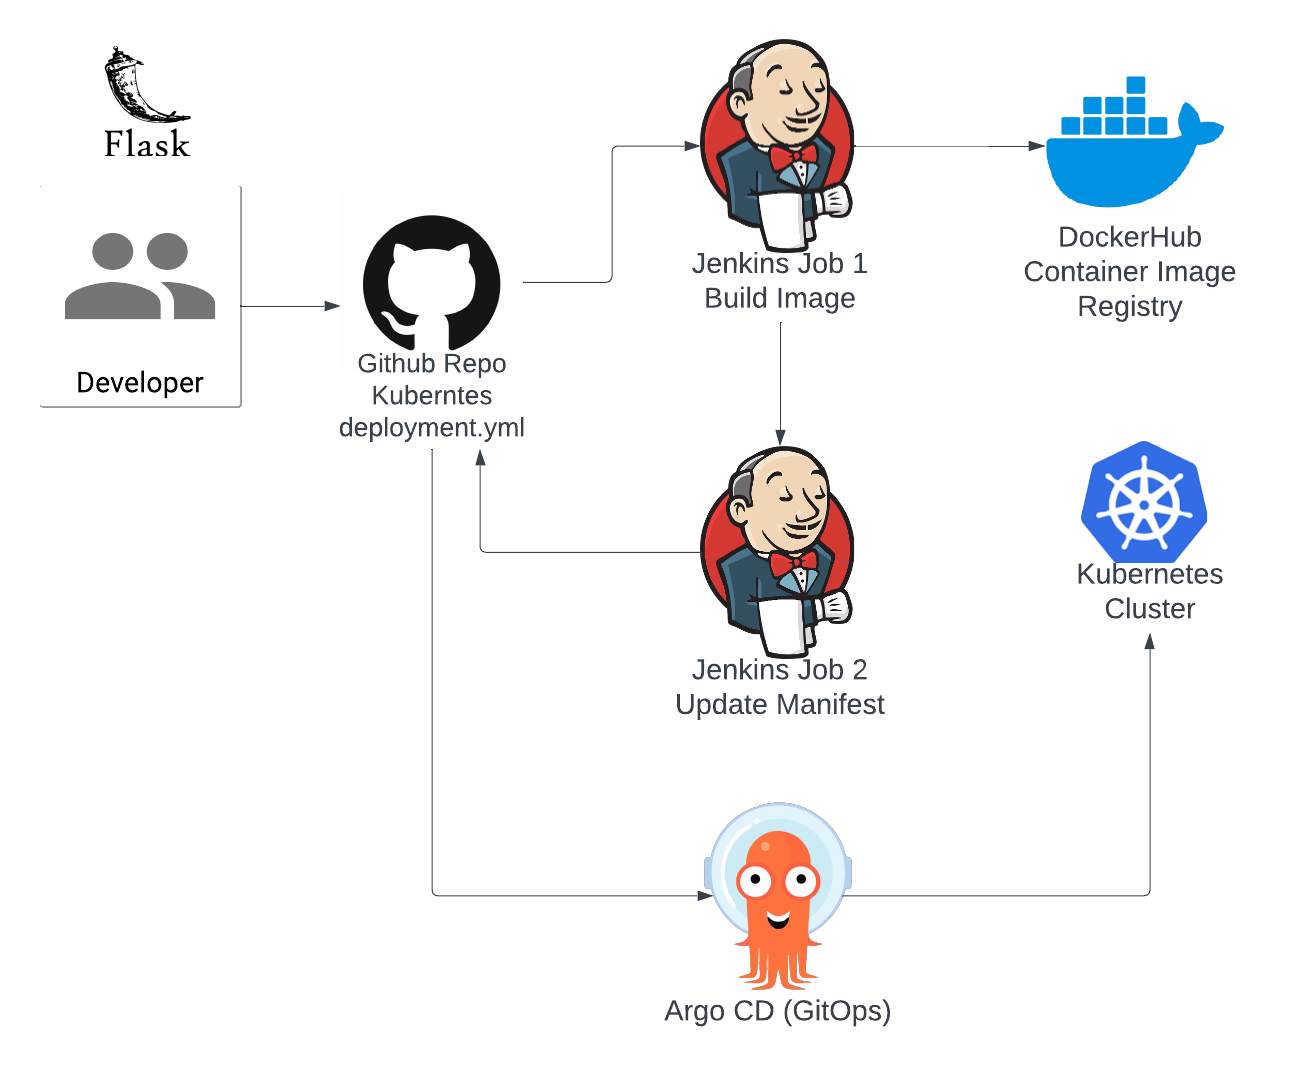
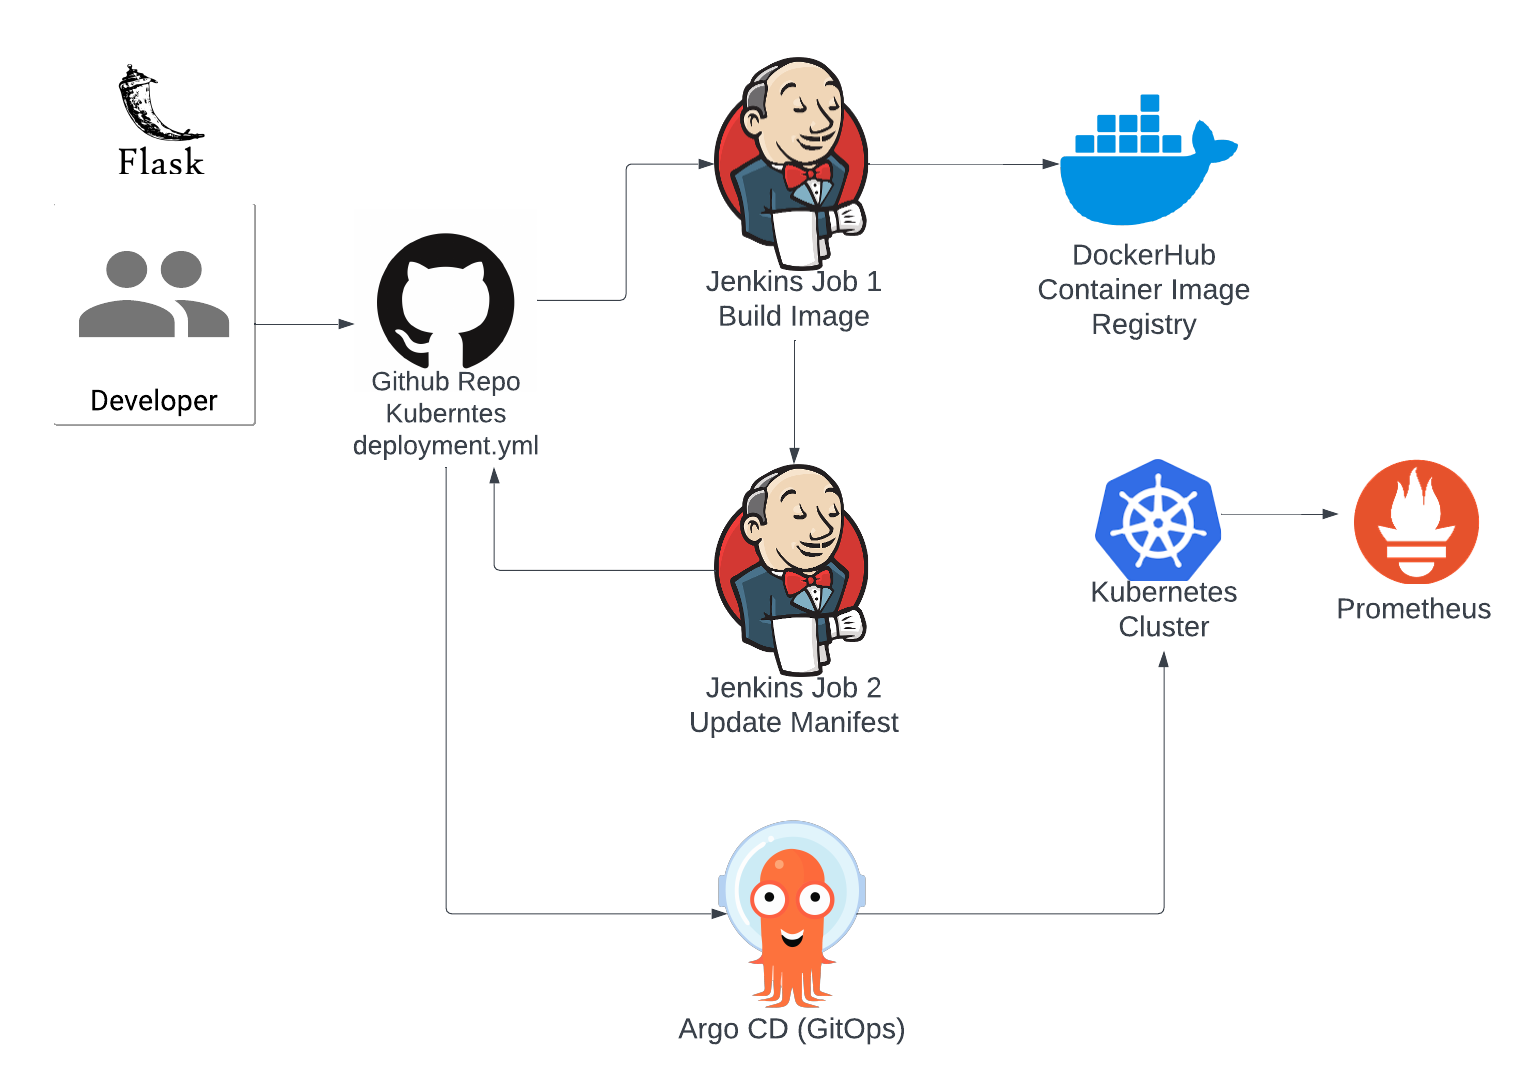
2023-06-21 commit

diff --git a/app.py b/app.py
@@ -3,4 +3,4 @@ app = Flask(__name__)
 
 @app.route('/')
 def hello_world():
-    return 'GitOps Project Up and running! V3'
+    return 'GitOps Project Up and running! V4!'

diff --git a/README1.md b/README1.md
@@ -1,34 +1,54 @@
-# personal_blog_website
-Personal Blog Website Hosted on AWS
+## Jenkins pipeline with GitOps(ArgoCD) to deploy code into a Kubernete. 
 
-![Diagram](Architecture-Diagram_GitOps_Project.png)
+- CI - Jenkins 
+- CD - ArgoCD (GitOps)
 
-<!-- [Personal Website Link](https://devopswithlasantha.tech/). -->
+## Architectural Diagram
+![ Architectural Diagram](Architecture-Diagram_GitOps_Project.png).
 
-[Blog Post Link](https://dev.to/aws-builders/how-i-built-my-personal-blog-site-using-aws-services-51l7).
+### [Manifest Repo](https://github.com/sanju2/manifest-repo)
 
 ### Used to follow the steps.
 
- - Step 1 : Build my blog site in HTML with CSS.
+1. Create two repositories (buildimage, update manifest)
 
-- Step 2 : Created an S3 bucket to store portfolio files.
+2. Install jenkins on ec2 and configure jenkins. Install docker & git on ec2
 
-- Step 3 : Create Route53 Hosted zone and add copy NS records. Next, paste the ns record domain provider nameservers section.
+3. create jenkins 1 job - build image. select build image repo
 
-- Step 4 : Next, go to the S3 bucket and enable Static website hosting, and map the Index document and Error document.
+4. create jenkins 2 job - update manifest. select update manifest rep0
 
-- Step 5 : Requested a public certificate for your domain in AWS Certificate Manager(ACM).
+5. Run build image job. See docker image is updated.
 
-- Step 6 : Setup a CloudFront Distribution. Select S3 Static website hosting bucket endpoint and ACM public certificate.
+6. Create EKS Cluster. and update .kubeconfig file.
 
-- Step 7 : Next, create a Lambda function for the Visitor Count display. Used Python 3.9 runtime.
+7. install argo cd using kubernetes. and login console.
 
-- Step 8 : Created DynamoDB table for Visitor count.
+8. create argo cd app. and configure github hook.
 
-- Step 9 : Created APIGateway REST API and Invoke Lambda function.
+9. Setup Prometheus for Monitoring On Kubernetes Cluster.
 
-- Step 10 : Create a git repository and push code.
+## Screenshots
 
-- Step 11 : Create CodeBuild Build project for deploying S3 static website files and Lambda function codes.
+### EC2 Instance (Jenkins Server)
+![Jenkins Server](screenshots/JenkinsServer.png).
 
-- Step 12 : Finally, create an AWS code pipeline and deploy your latest release.
+### Build Jenkins job
+![Jenkins Server 1](screenshots/Jenkins1.png).
+
+### Manifest Update Jenkins job
+![Jenkins Server 2](screenshots/Jenkins2.png).
+
+### Jenkins Home Page
+![Jenkins Server 3](screenshots/Jenkins3.png).
+
+### ArgoCD Dashboard
+![ArgoCD](screenshots/Argo-CD.png).
+
+### Prometheus Dashboard
+![Prometheus](screenshots/Jenkins1.png).
+
+### Final Output
+![Output](screenshots/Final_Output.png).
+
+@Sanju2 :+1: Thank You! :shipit:
